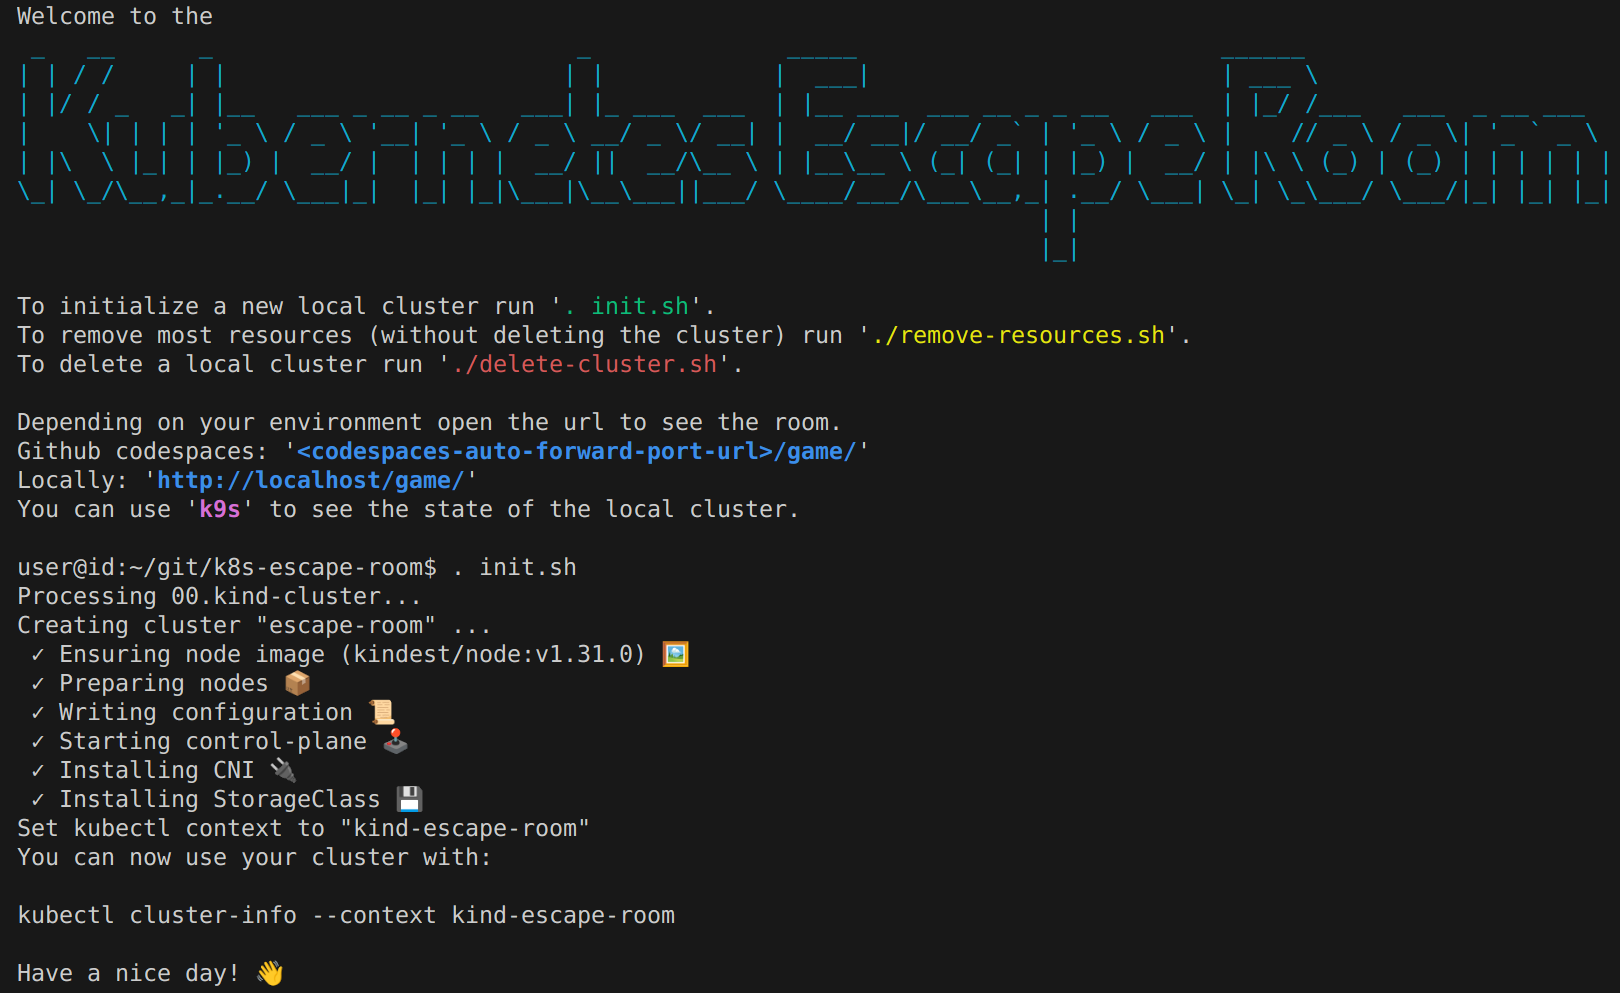
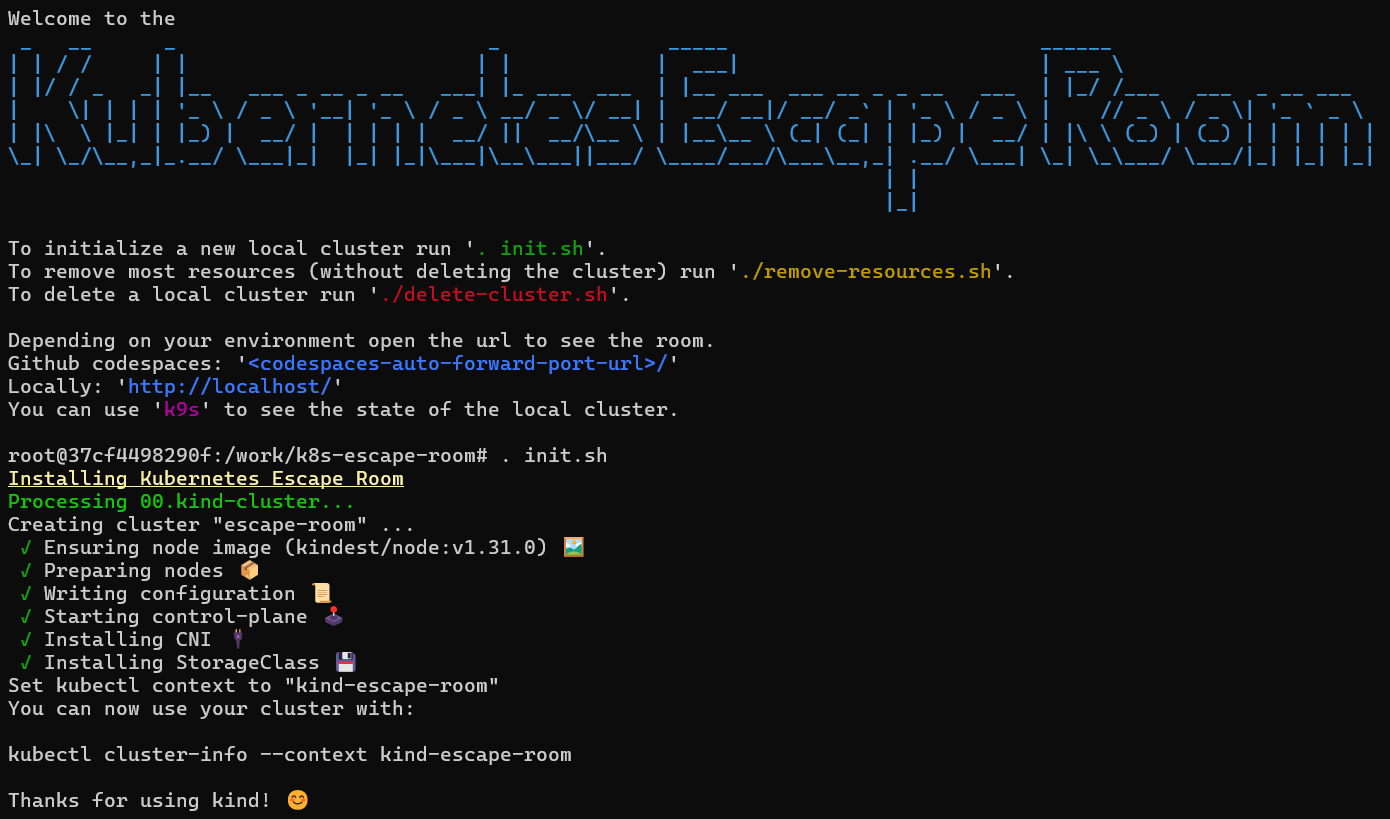
Serve frontend directly at http://localhost/ (#57)
* Serve frontend directly at http://localhost/

* Review Finding: use shorter url in welcome message and screenshot

diff --git a/.docs/local.md b/.docs/local.md
@@ -37,8 +37,7 @@ Wait a short time while everything is being set up.
 ## Play
 As soon as the cluster and its resources are ready you can start playing.
 
-To access the escape room UI in your browser please use [http://localhost/game/](http://localhost/game/).
-(Right now the last slash is important).
+To access the escape room UI in your browser please use [http://localhost/](http://localhost/).
 
 Broken parts in the study are marked with a red circle. 
 Hovering there with your cursor gives you a hint for what you might be looking for.

diff --git a/.docs/codespaces.md b/.docs/codespaces.md
@@ -32,8 +32,6 @@ Wait a short time while everything is being set up.
 As soon as the cluster and its resources are ready you can start playing.
 
 Change to the ports tab and open one of the auto forwarded ports (80 or 443).
-After the forwarded address was opened in a new browser tab add `/game/` to the url.
-(Right now the last slash is important).
 
 ![Open port](../.images/github-codespaces-ports.png)
 
